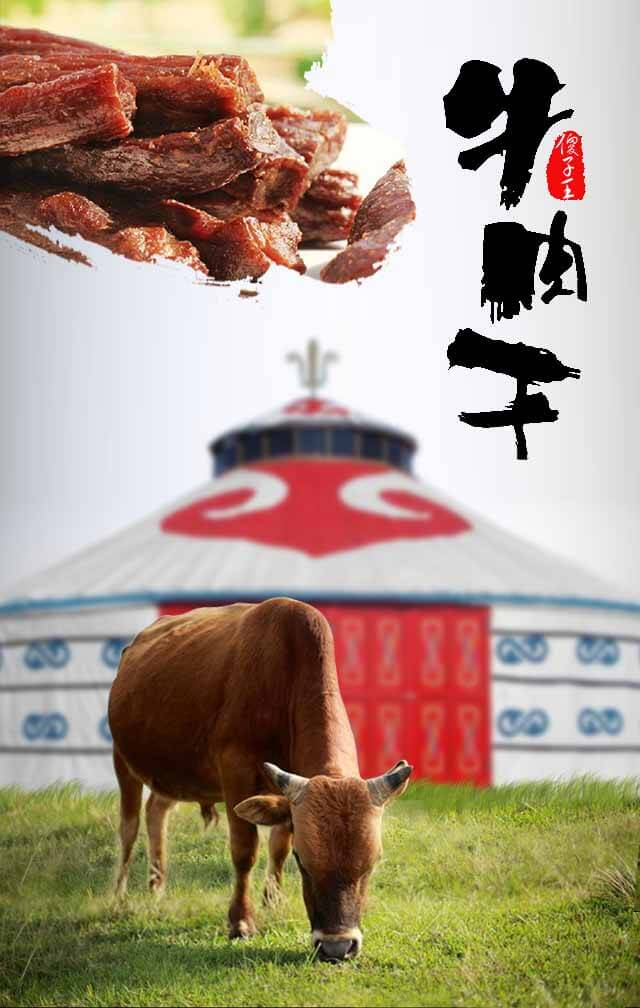
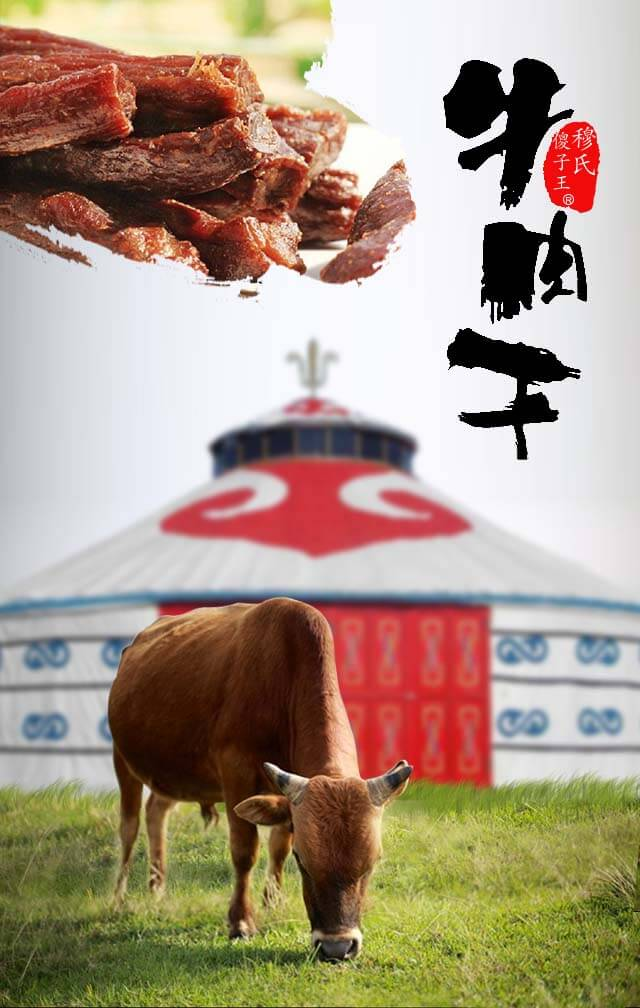
牛肉、凉皮、坐垫
不想写修改详情了T__T

Changed region(s): [[0.8438, 0.0923, 0.9375, 0.2153]]

diff --git a/liangpi/zhenwei.html b/liangpi/zhenwei.html
@@ -12,9 +12,18 @@
 		<img src="img/zhenwei_02.jpg" alt="" class="img-responsive">
 		<div class="article">
 			<h4 style="margin-top: 15px;">基本信息</h4>
-			<p>产品名称：宁夏大武口凉皮</p>
-			<p>生产厂家：宁夏石嘴山市平生食品有限公司</p>
-			<p>生产地址：宁夏石嘴山市大武口区二厂工业园</p>
+			<div class="txt_lr">
+				<strong>产品名称：</strong><p>宁夏大武口凉皮</p>
+			</div>
+			<div class="clear"></div>
+			<div class="txt_lr">
+				<strong>生产厂家：</strong><p>宁夏石嘴山市平生食品有限公司</p>
+			</div>
+			<div class="clear"></div>
+			<div class="txt_lr">
+				<strong>生产地址：</strong><p>宁夏石嘴山市大武口区二厂工业园</p>
+			</div>
+			<div class="clear"></div>
 		</div>
 		<a href="main.html" class="back">
 			<img src="img/return.png" alt="">

diff --git a/beefJerky/index.html b/beefJerky/index.html
@@ -3,7 +3,7 @@
 	<head>
 		<meta charset="utf-8">
 		<meta content="width=device-width, initial-scale=1.0, user-scalable=no, minimum-scale=1.0, maximum-scale=1.0" name="viewport">
-		<title>傻子王牛肉干</title>
+		<title>穆氏傻子王牛肉干</title>
 		<link rel="stylesheet" type="text/css" href="css/common.css"/>
 		<link rel="stylesheet" type="text/css" href="css/index.css"/>
 		<style type="text/css">

diff --git a/beefJerky/main.html b/beefJerky/main.html
@@ -3,7 +3,7 @@
 	<head>
 		<meta charset="utf-8">
 		<meta content="width=device-width, initial-scale=1.0, user-scalable=no, minimum-scale=1.0, maximum-scale=1.0" name="viewport">
-		<title>傻子王牛肉干</title>
+		<title>穆氏傻子王牛肉干</title>
 		<link rel="stylesheet" type="text/css" href="css/common.css"/>
 		<link rel="stylesheet" type="text/css" href="css/index.css"/>
 		<style type="text/css">

diff --git a/liangpi/css/index.css b/liangpi/css/index.css
@@ -170,3 +170,20 @@ a.ewm_return{
 	margin: 30px auto 0;
 }
 /*关注微信--end*/
+div.txt_lr {
+  width: 100%;
+  height: 30px;
+  line-height: 30px;
+}
+div.txt_lr > strong {
+  display: block;
+  float: left;
+  font-size: 16px;
+  max-width: 28%;
+  font-weight: bold;
+}
+div.txt_lr > p {
+  width: 72%;
+  display: block;
+  float: right;
+}
